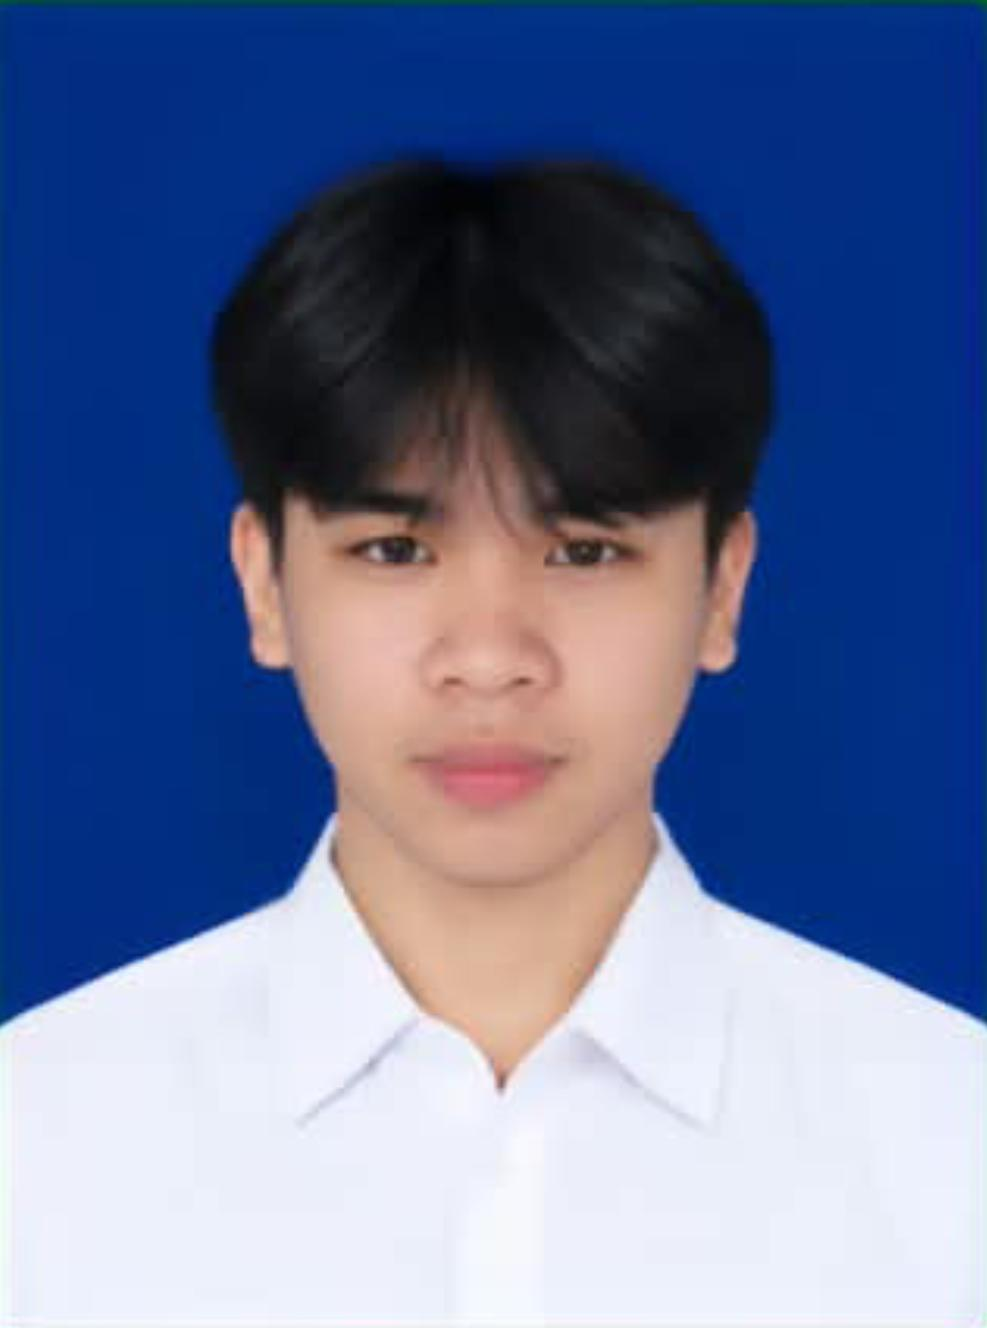
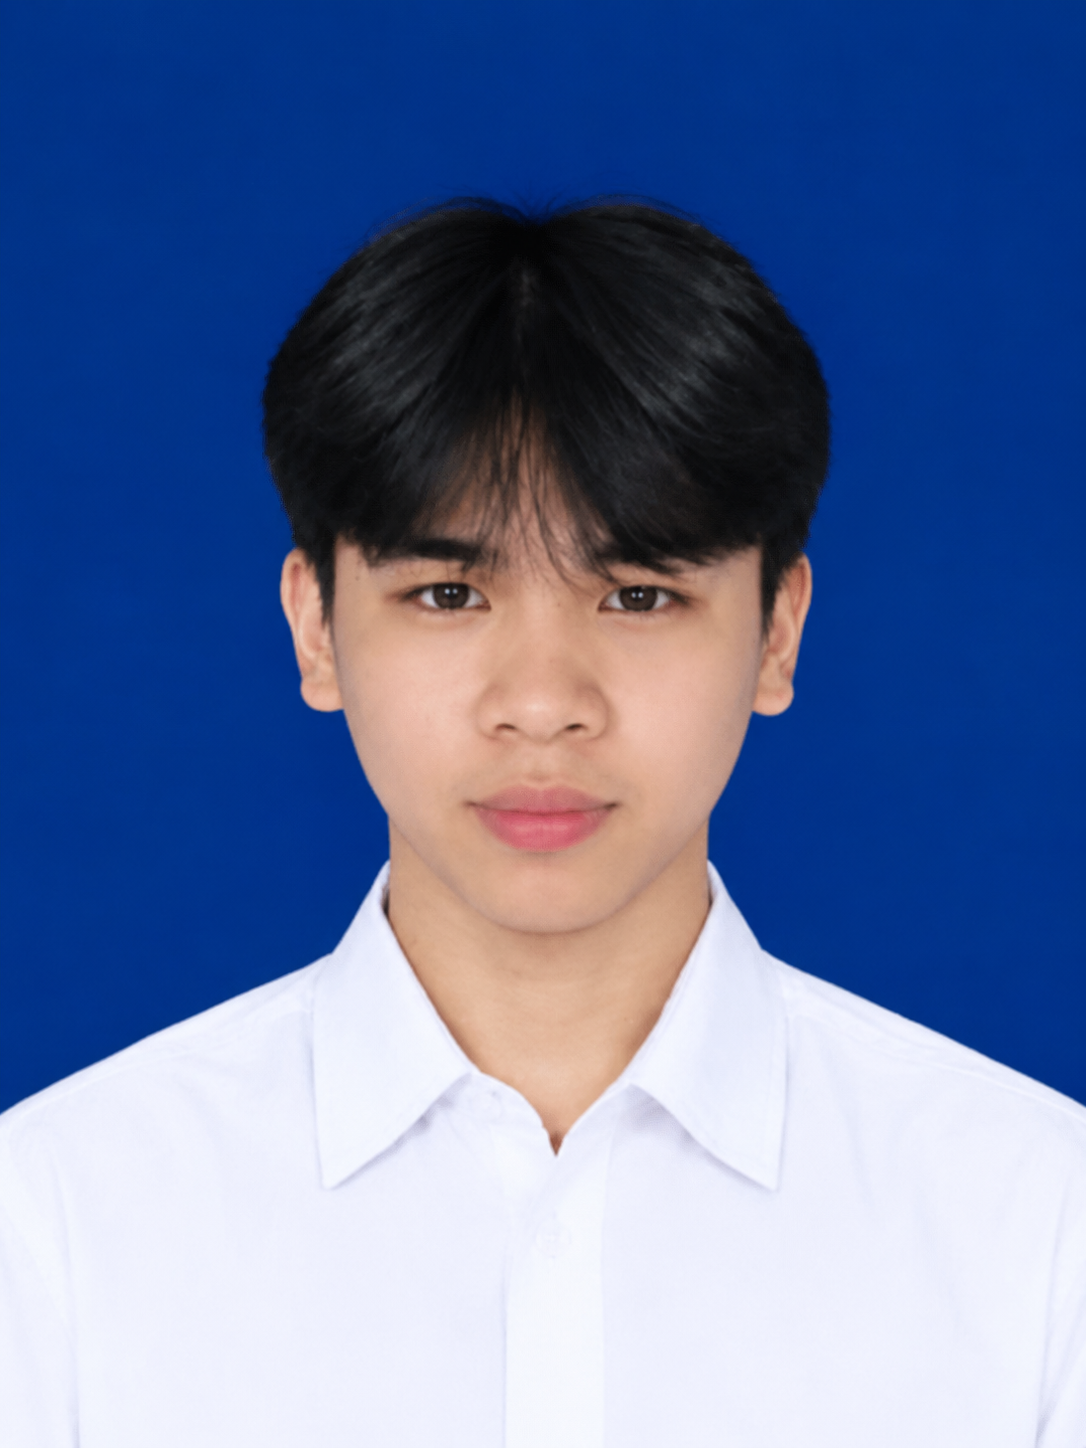
kumpulkan tugas ke github

diff --git a/pertemuan-02/indeks.html b/pertemuan-02/indeks.html
@@ -1,41 +1,52 @@
 <!DOCTYPE html>
 <html lang="en">
 <head>
-    <meta charset="UTF-8">
-    <meta name="viewport" content="width=device-width, initial-scale=1.0">
-    <title>Profile Mahasiswa</title>
+  <meta charset="UTF-8">
+  <meta name="viewport" content="width=device-width, initial-scale=1.0">
+  <title>Profil Mahasiswa</title>
 </head>
 <body>
   <header>
-    <h1>Profile Mahasiswa</h1>
-    <nav>
-      <ul>
-        <li><a href="home.html">Beranda</a></li>
-        <li><a href="about.html">Tentang</a></li>
-        <li><a href="contact.html">Kontak</a></li>
-      </ul>
-    </nav>
-  </header>
+    <h1>Profil Mahasiswa</h1>
+  <nav>
+    <ul>
+      <li><a href="#home">Beranda</a></li>
+      <li><a href="#about">Tentang</a></li>
+      <li><a href="#contact">Kontak</a></li>
+    </ul>
+  </nav>
+</header>
 
-    <main>
-        <section id="home">
-        <h2>Selamat Datang</h2>
-        <p>Hallo, Nama saya Revand. Saya sedang mempelajari Pemrograman Web Dasar.</p>
-        <img src="foto-profil.png">
-        <p>Jurusan: Teknik Informatika</p>
-        </section>
-    
-        <section>
-        <h2>Riwayat Pendidikan</h2>
-        <ul>
-            <li>SMA Negeri 1 Jakarta (2015-2018)</li>
-            <li>Universitas Indonesia (2018-sekarang)</li>
-        </ul>
-        </section>
-    
-        <section>
-        <h2>Kontak</h2>
-        <p>Email: johndoe@example.com</p>
-        </section>
+</main>
+  <section id="home">
+    <h2>Selamat Datang</h2>
+    <p>Halo, Saya Revand. Sedang mempelajari Pemrograman Web Dasar.</p>
+  <img src="foto-profil.png" alt="Foto Profil Revand" width="200">
+  </section>
 
-        <section id
+  <section id="about">
+    <h2>Tentang Saya</h2>
+    <article>
+      <h3>Profil Singkat</h3>
+      <p>Saya mahasiswa Program Studi Sistem Informasi.</p>
+
+      <h3>Target Belajar</h3>
+       <o1>
+        <li>Memahami struktur HTML</li>
+        <li>Menyusun halaman web semantik</li>
+        <li>Memvalidasi dokumen HTML</li>
+       </o1>
+    </article>
+  </section>
+
+  <section id="contact">
+    <h2>Kontak Us</h2>
+    <p>Kunjungi <a href="https://github.com/2622500017-pixel/2622500017-PWD-SI1A-2627O.git"> Profil Github saya</a>.</p>
+  </section>
+</main>
+
+  <footer>
+    <p>&copy; 2026 Revand [2622500017].</p>
+  </footer>
+</body>
+</html>
